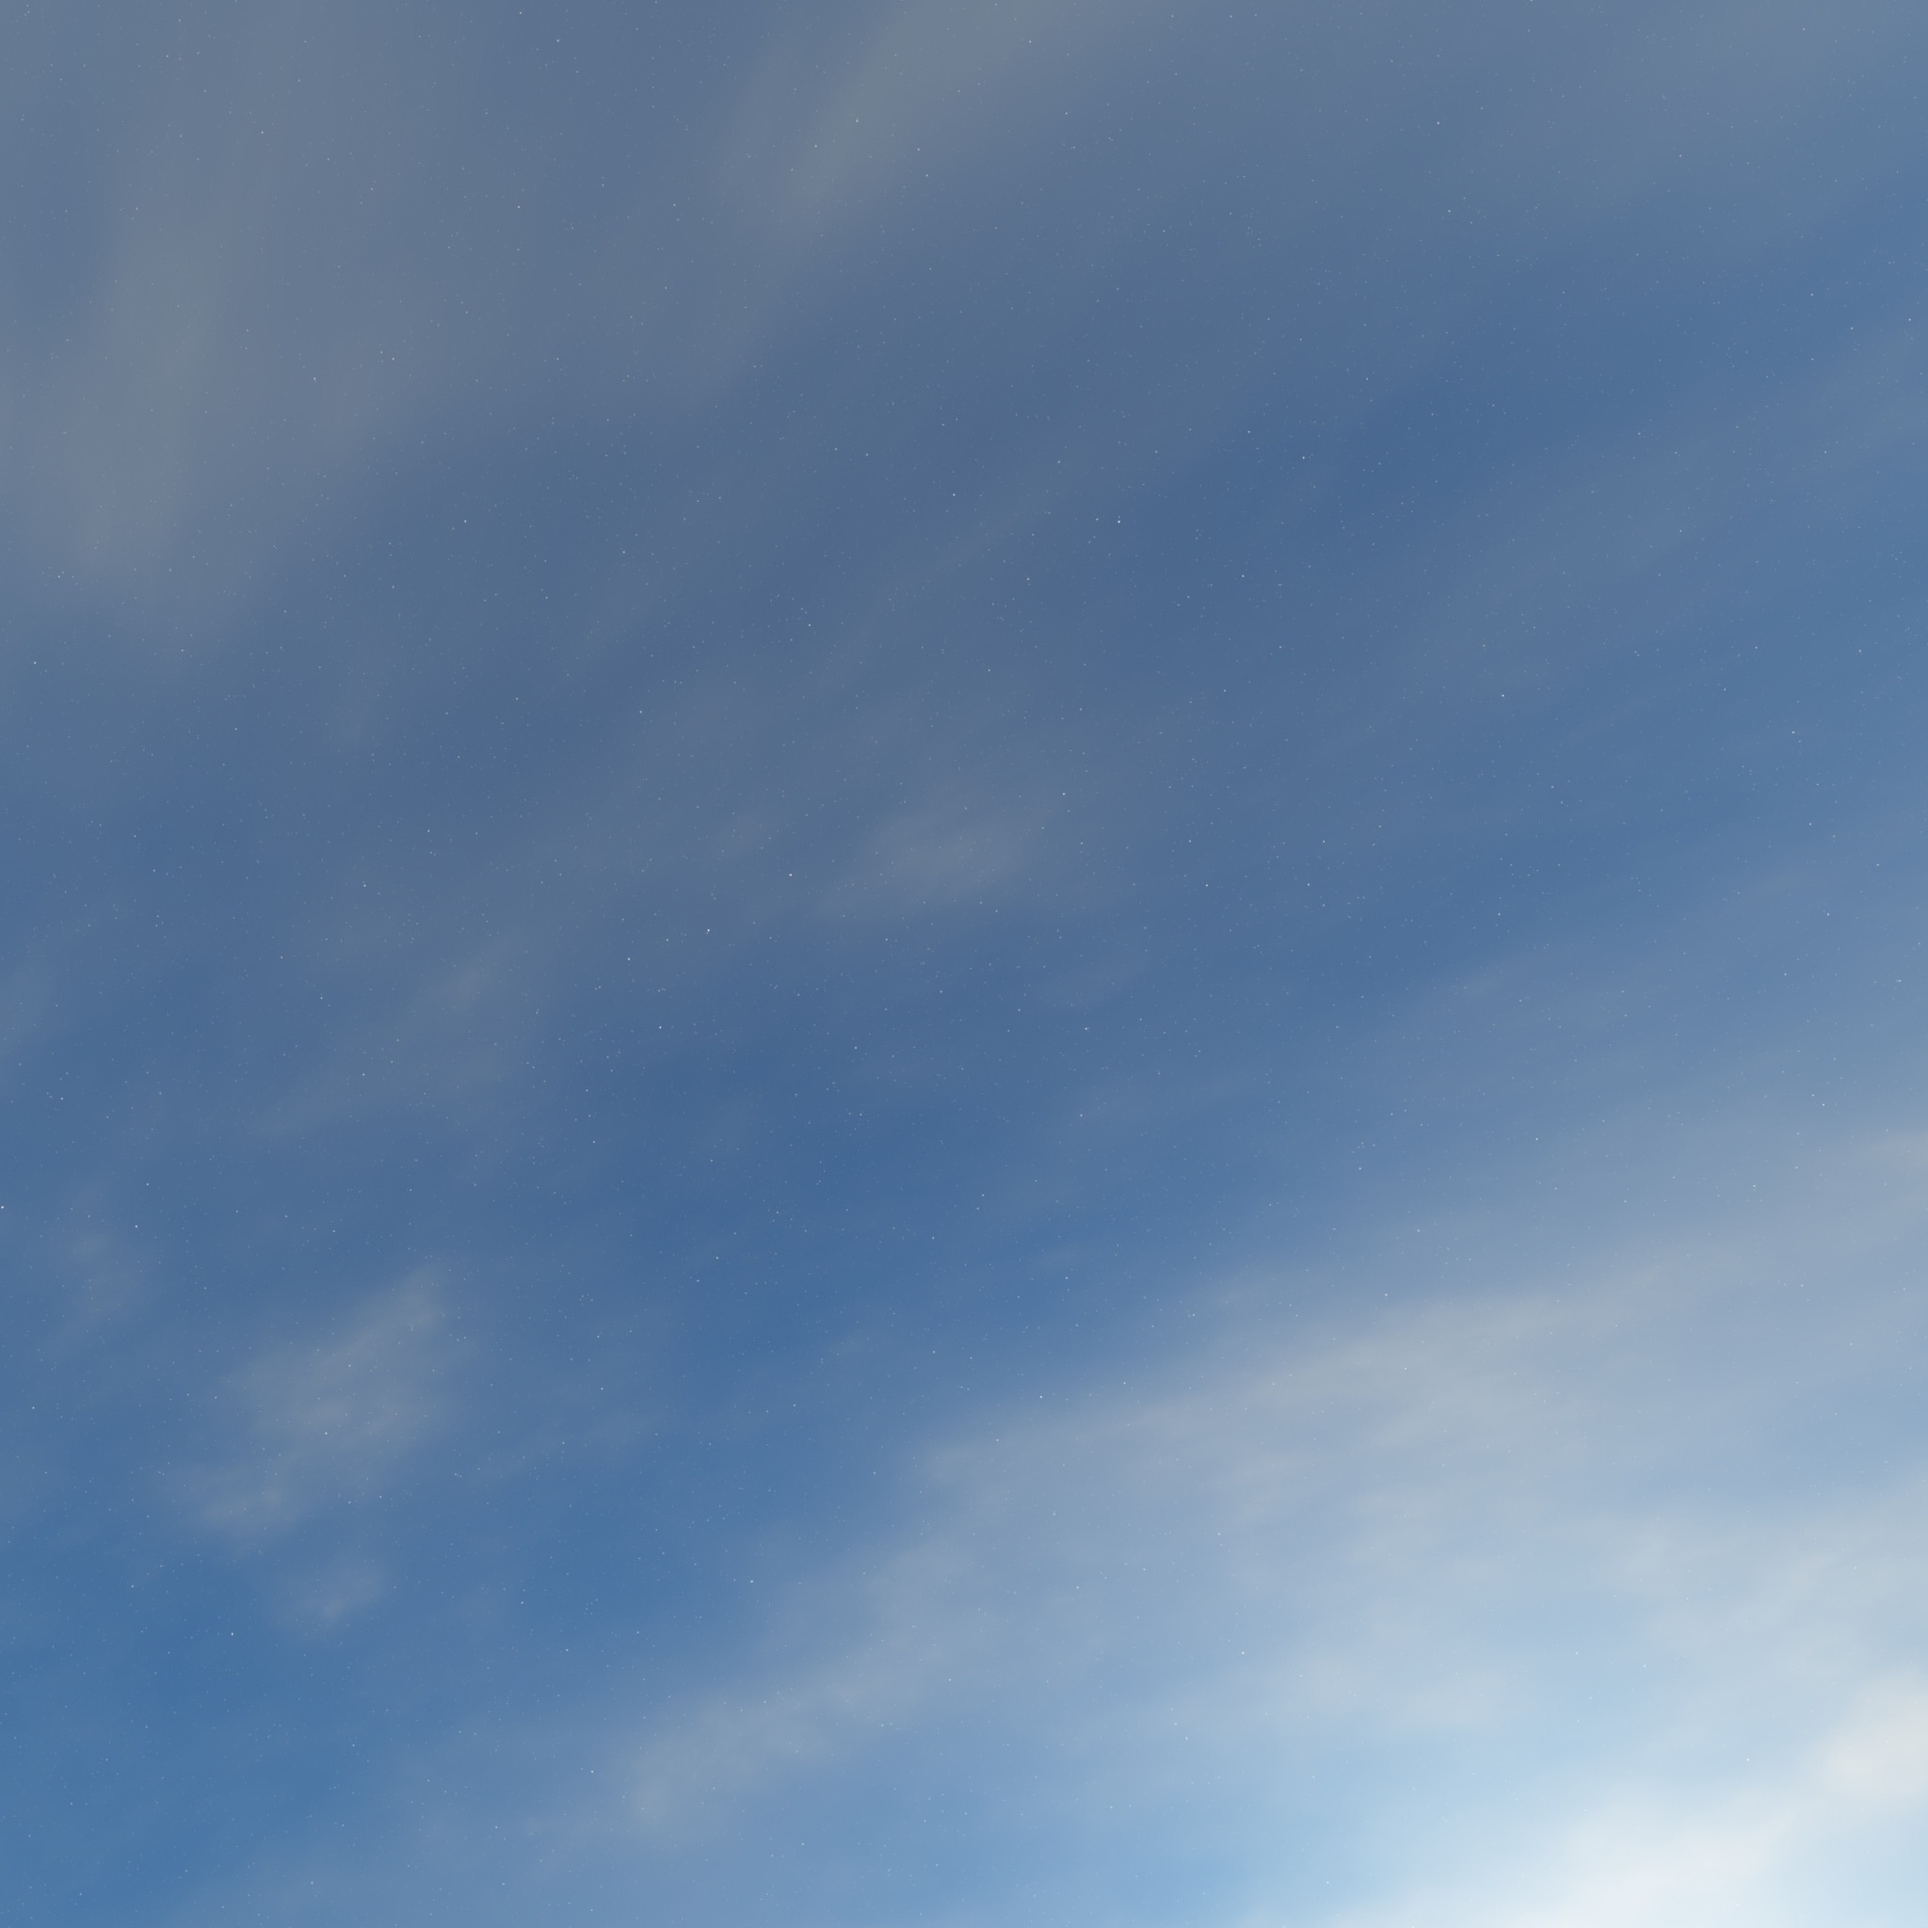
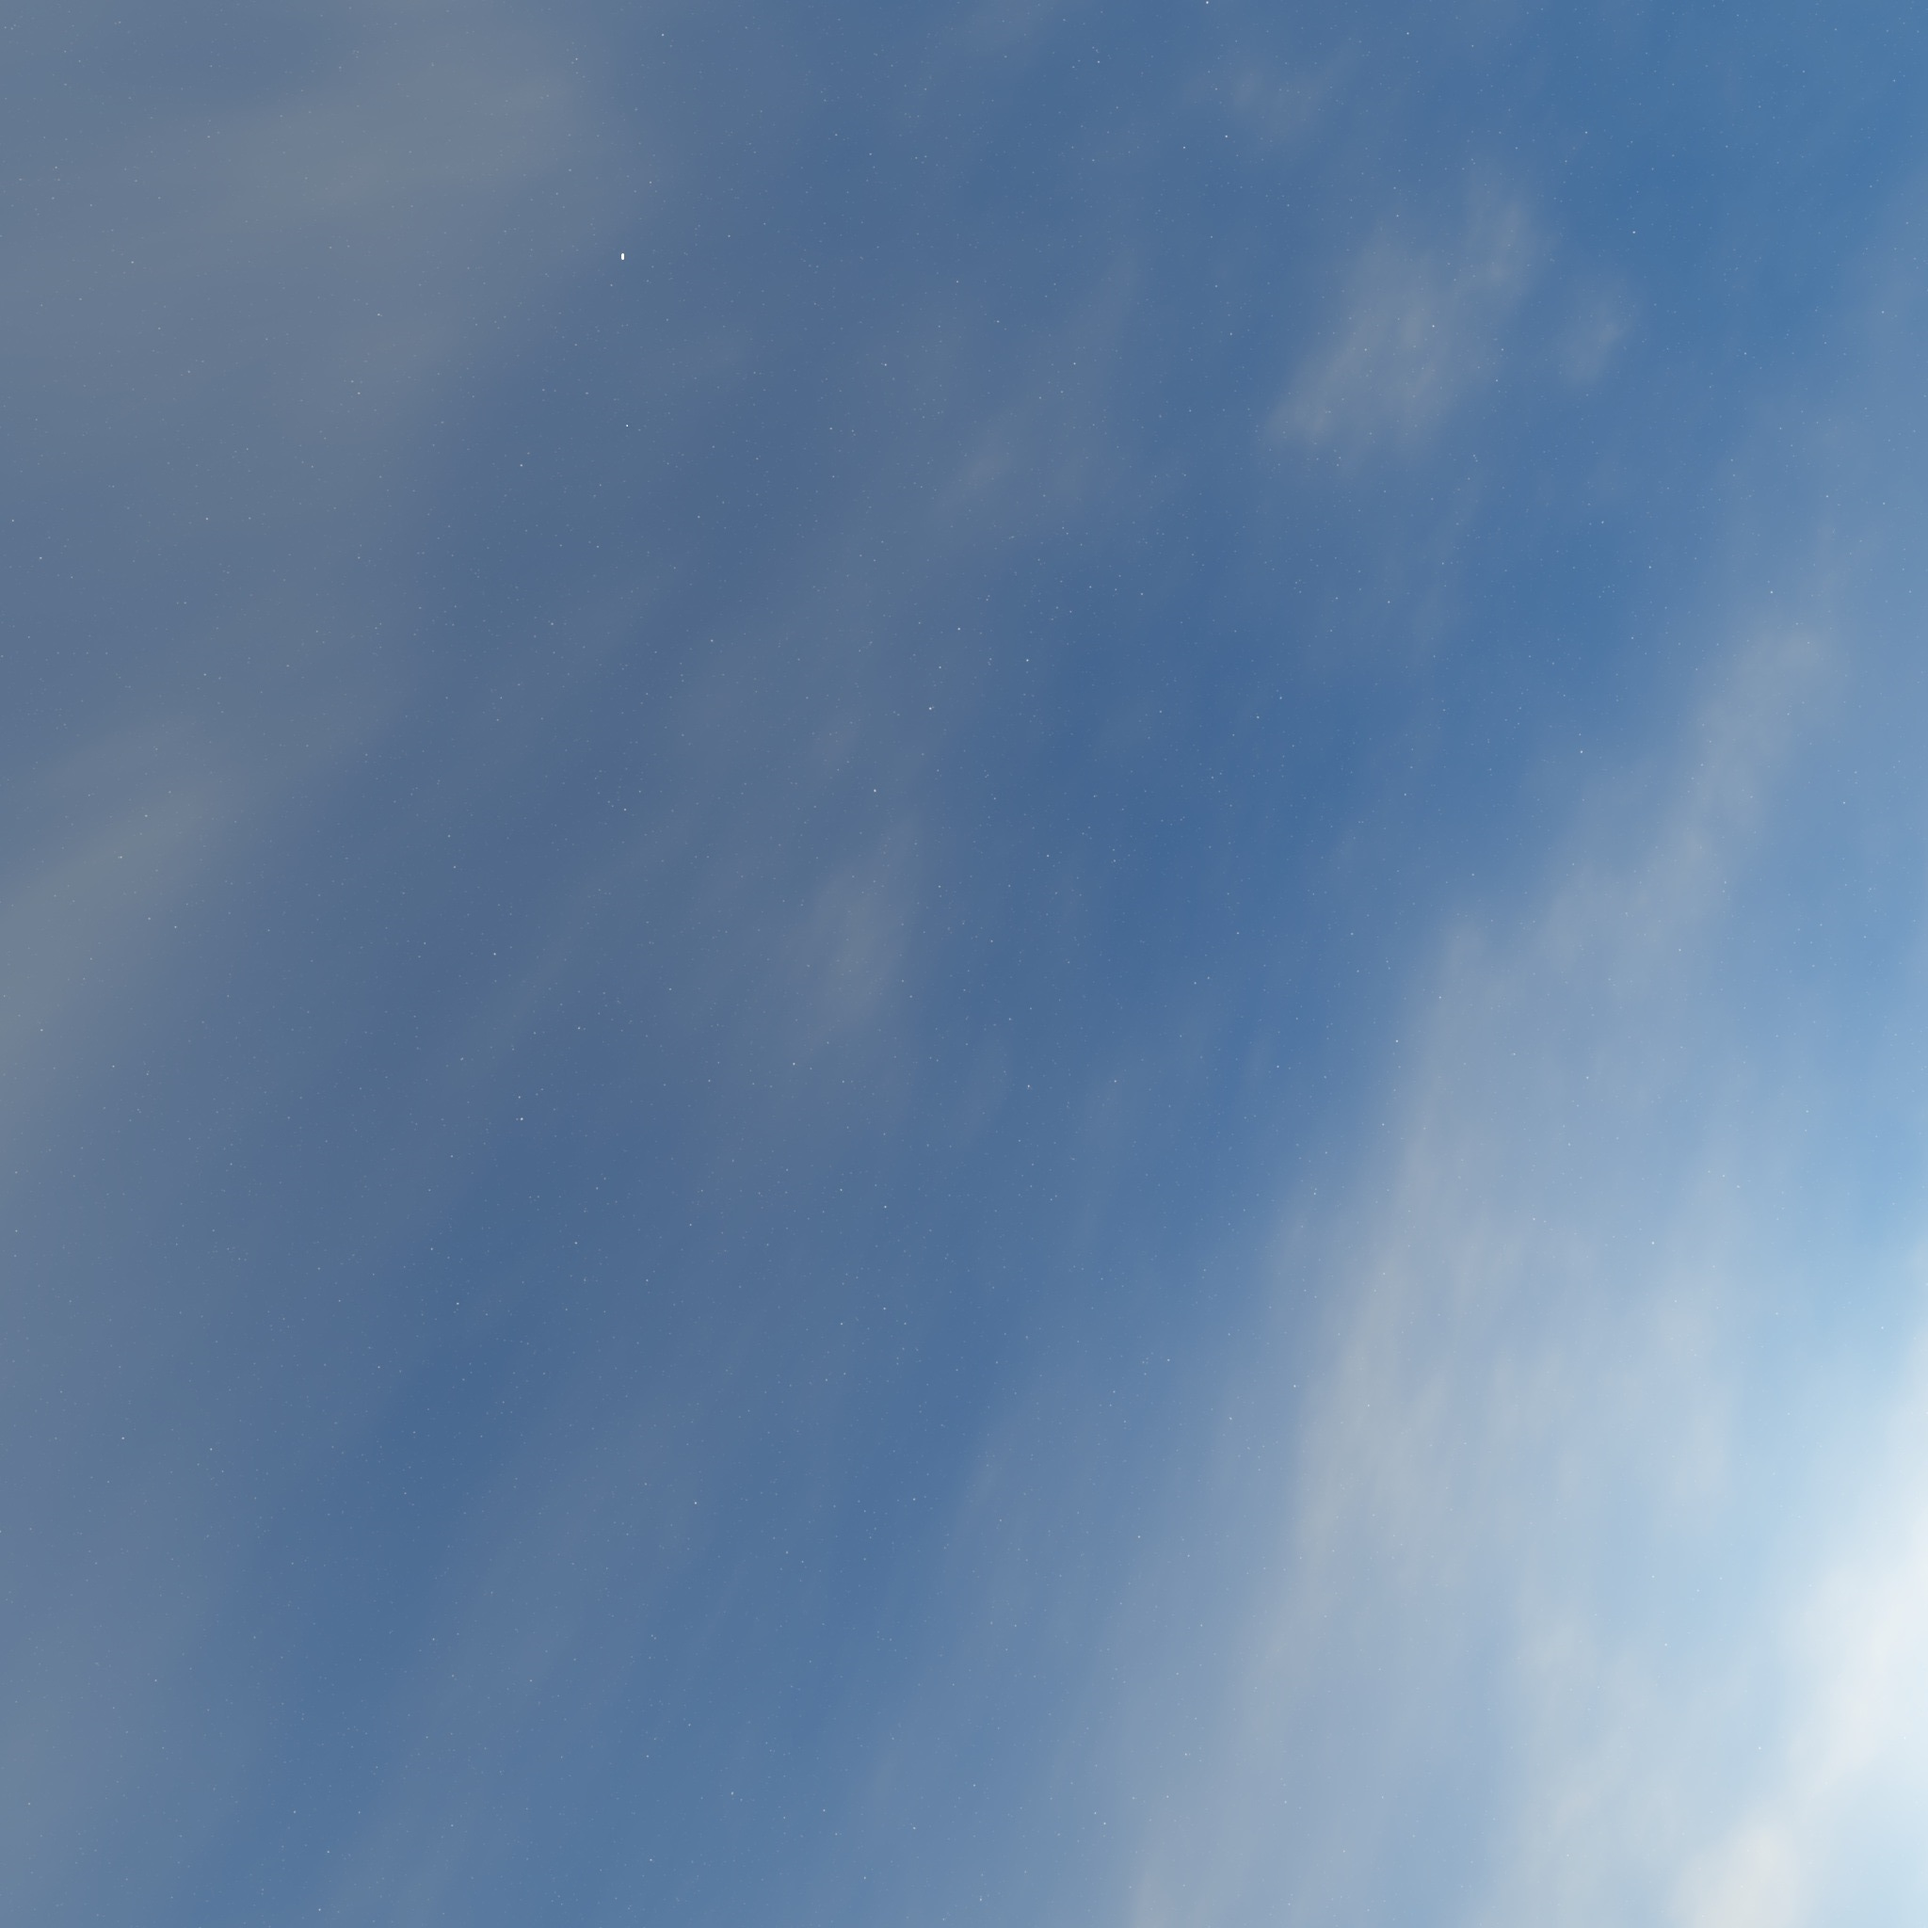
Working skybox

diff --git a/Final Project/src/application.cpp b/Final Project/src/application.cpp
@@ -87,7 +87,6 @@ public:
         m_meshes = GPUMesh::loadMeshGPU("resources/carTexturesTest.obj");
         road = GPUMesh::loadMeshGPU("resources/temp_road.obj");
         skybox = GPUMesh::loadMeshGPU("resources/skybox.obj");
-        skybox.erase(std::next(skybox.begin()));
 
         try {
             ShaderBuilder defaultBuilder;
@@ -204,7 +203,10 @@ public:
             glm::mat4 translationMatrix = glm::translate(glm::mat4(1.0f), glm::vec3{ 0,0,move });
             m_modelMatrix = translationMatrix;
             const glm::mat4 mvpMatrix = m_projectionMatrix * view * m_modelMatrix;
-            const glm::mat4 invmvpMatrix = m_projectionMatrix * view * glm::inverse(m_modelMatrix);
+
+            glm::mat4 skyModelMatrix = glm::translate(glm::mat4(1.0f), camera.cameraPos());
+            const glm::mat4 mvpMatrixSky = m_projectionMatrix * view * skyModelMatrix;
+
             // Normals should be transformed differently than positions (ignoring translations + dealing with scaling):
             // https://paroj.github.io/gltut/Illumination/Tut09%20Normal%20Transformation.html
             const glm::mat3 normalModelMatrix = glm::inverseTranspose(glm::mat3(m_modelMatrix));
@@ -261,9 +263,8 @@ public:
             for (int i = 0; i < 6; i++) {
                 GPUMesh& mesh = skybox[i];
                 m_skyboxShader.bind();
-                glUniformMatrix4fv(0, 1, GL_FALSE, glm::value_ptr(invmvpMatrix));
-                glUniform3fv(1, 1, glm::value_ptr(camera.cameraPos()));
-                glUniformMatrix4fv(2, 1, GL_FALSE, glm::value_ptr(m_modelMatrix));
+                glUniformMatrix4fv(0, 1, GL_FALSE, glm::value_ptr(mvpMatrixSky));
+                glUniformMatrix4fv(1, 1, GL_FALSE, glm::value_ptr(skyModelMatrix));
                 glUniform1i(3, i+1);
                 glUniform1i(4, GL_TRUE); 
                 glUniform1i(5, GL_FALSE);
